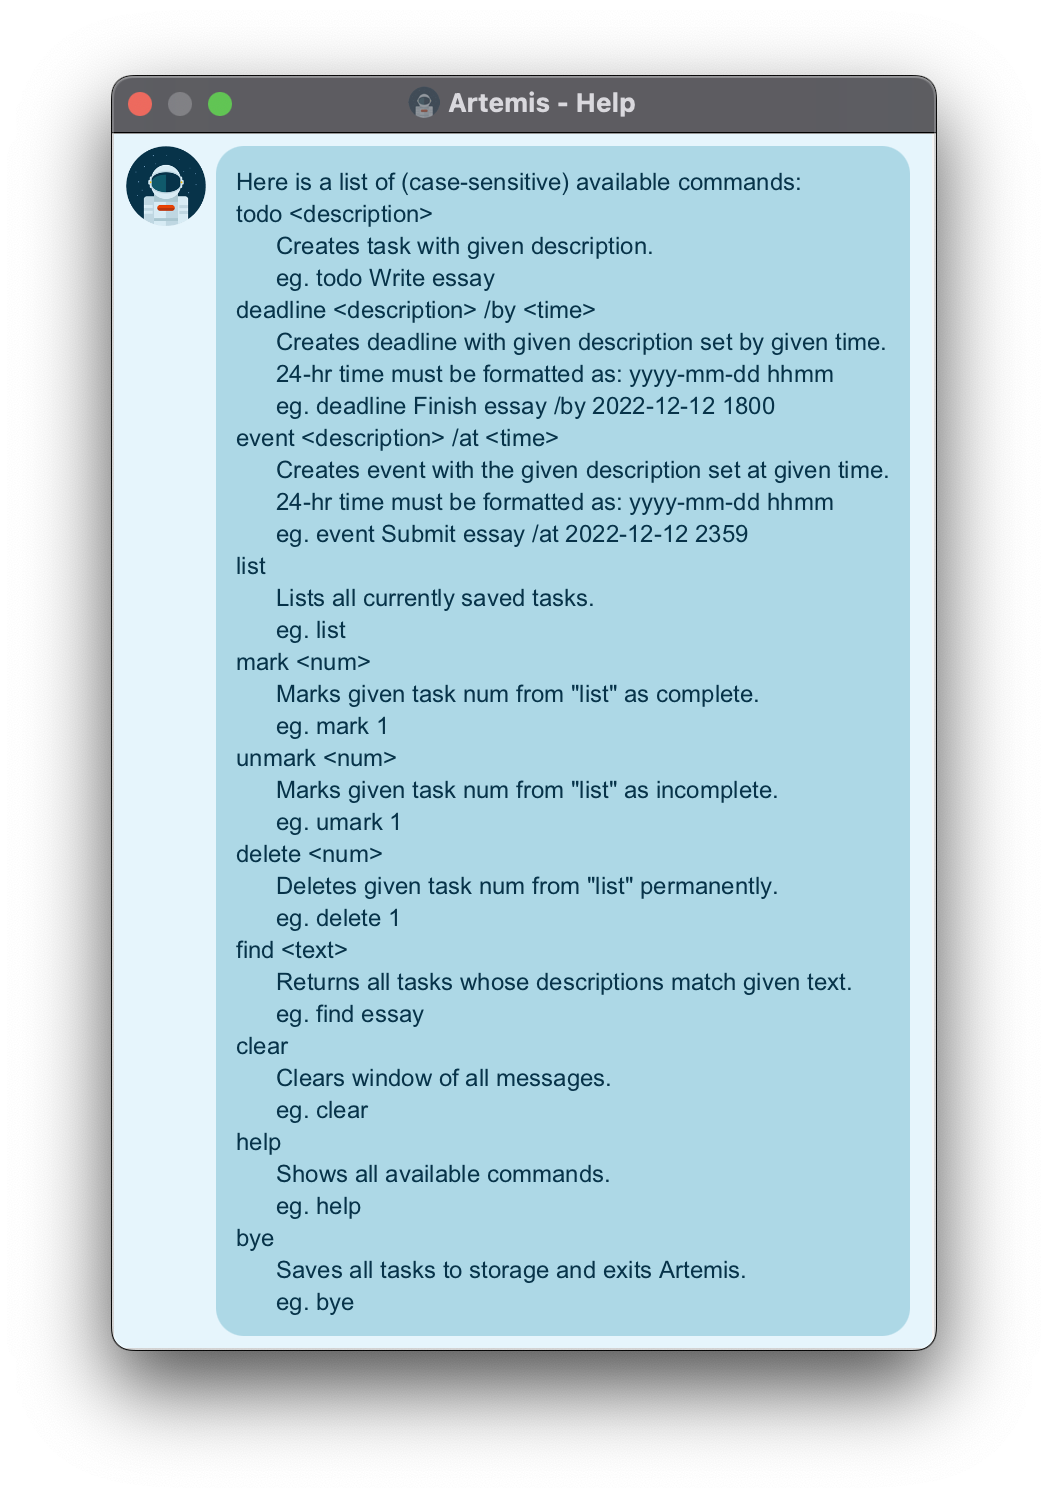
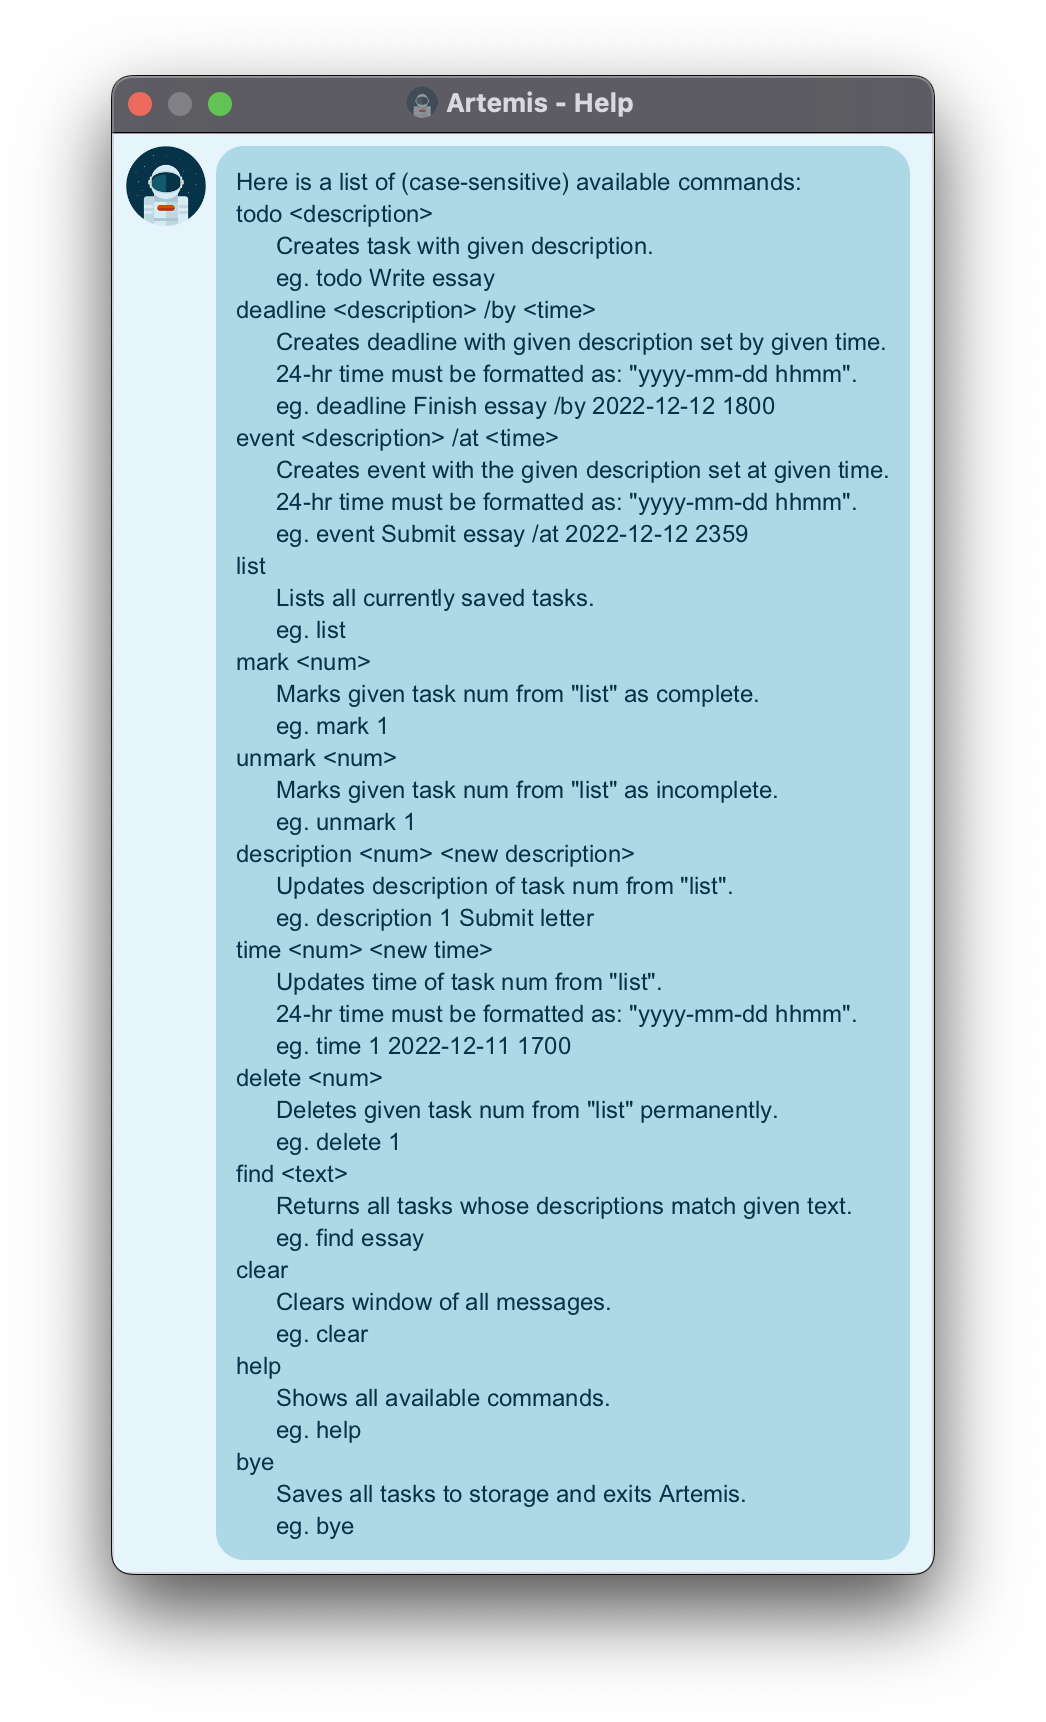
Update user guide and help command to include extension commands

Changed region(s): [[0.0918, 0.0307, 0.9178, 0.9519]]

diff --git a/src/main/java/duke/command/HelpCommand.java b/src/main/java/duke/command/HelpCommand.java
@@ -17,6 +17,8 @@ public class HelpCommand implements Command {
         "list",
         "mark <num>",
         "unmark <num>",
+        "description <num> <new description>",
+        "time <num> <new time>",
         "delete <num>",
         "find <text>",
         "clear",
@@ -26,12 +28,15 @@ public class HelpCommand implements Command {
     private static final String[] COMMAND_DESCRIPTIONS = {
         "Creates task with given description.",
         "Creates deadline with given description set by given time.\n"
-                + "      24-hr time must be formatted as: yyyy-mm-dd hhmm",
+                + "      24-hr time must be formatted as: \"yyyy-mm-dd hhmm\".",
         "Creates event with the given description set at given time.\n"
-                + "      24-hr time must be formatted as: yyyy-mm-dd hhmm",
+                + "      24-hr time must be formatted as: \"yyyy-mm-dd hhmm\".",
         "Lists all currently saved tasks.",
         "Marks given task num from \"list\" as complete.",
         "Marks given task num from \"list\" as incomplete.",
+        "Updates description of task num from \"list\".",
+        "Updates time of task num from \"list\".\n"
+                + "      24-hr time must be formatted as: \"yyyy-mm-dd hhmm\".",
         "Deletes given task num from \"list\" permanently.",
         "Returns all tasks whose descriptions match given text.",
         "Clears window of all messages.",
@@ -44,7 +49,9 @@ public class HelpCommand implements Command {
         "event Submit essay /at 2022-12-12 2359",
         "list",
         "mark 1",
-        "umark 1",
+        "unmark 1",
+        "description 1 Submit letter",
+        "time 1 2022-12-11 1700",
         "delete 1",
         "find essay",
         "clear",

diff --git a/src/main/java/duke/ui/HelpPopup.java b/src/main/java/duke/ui/HelpPopup.java
@@ -35,8 +35,8 @@ public class HelpPopup {
         Scene scene1 = new Scene(sp, 300, 250);
         scene1.setFill(Color.web("#e6f5fc"));
         popupWindow.setScene(scene1);
-        popupWindow.setWidth(412); // Ideal width to prevent need for scrolling
-        popupWindow.setHeight(637); // Ideal height to prevent need for scrolling
+        popupWindow.setWidth(411); // Ideal width to prevent need for scrolling
+        popupWindow.setHeight(749); // Ideal height to prevent need for scrolling
         popupWindow.show();
     }
 }

diff --git a/src/main/java/duke/command/UpdateTimeCommand.java b/src/main/java/duke/command/UpdateTimeCommand.java
@@ -28,7 +28,7 @@ public class UpdateTimeCommand implements Command {
             throw new DukeException("Please attach a valid task number to the command.");
         } catch (IndexOutOfBoundsException e) {
             throw new DukeException("Please attach both a valid task number and a "
-                    + "non-empty time in this 24-hour format: \"yyyy-mm-dd hhmm\"");
+                    + "non-empty time in this 24-hour format: \"yyyy-mm-dd hhmm\".");
         }
     }
 

diff --git a/docs/README.md b/docs/README.md
@@ -60,11 +60,13 @@ under [UI Screenshots](#ui-screenshots). Here is a table summarising them:
 5. [Viewing all tasks](#viewing-all-tasks-list)
 6. [Marking a task as complete](#marking-a-task-as-complete-mark)
 7. [Marking a task as incomplete](#marking-a-task-as-incomplete-unmark)
-8. [Deleting a task](#deleting-a-task-delete)
-9. [Searching for a task](#searching-for-a-task-find)
-10. [Clearing screen of all messages](#clearing-screen-of-all-messages-clear)
-11. [Deleting all tasks](#deleting-all-tasks-reset)
-12. [Saving and exiting](#saving-and-exiting-bye)
+8. [Updating a task description](#updating-a-task-description-description)
+9. [Updating time of deadline or event](#updating-time-of-deadline-or-event-time)
+10. [Deleting a task](#deleting-a-task-delete)
+11. [Searching for a task](#searching-for-a-task-find)
+12. [Clearing screen of all messages](#clearing-screen-of-all-messages-clear)
+13. [Deleting all tasks](#deleting-all-tasks-reset)
+14. [Saving and exiting](#saving-and-exiting-bye)
 
 ### Editing, Exporting or Importing Saved Data
 
@@ -75,106 +77,129 @@ folder present inside *Artemis*' home folder.
 
 ### Viewing list of available commands: `help`
 
-Shows all available commands in a new window, with a synopsis and usage example.  
-Usage: `help`
+_Shows all available commands in a new window, with a synopsis and usage example._  
+**Usage:** `help`
 
 ### Creating a task with a description: `todo`
 
-Creates a todo task.  
-Note: Todo tasks have a description attached to them.  
-Usage: `todo {description}`  
-Example: `todo Submit essay`
+_Creates a todo task._  
+**Note:** Todo tasks have a description attached to them.  
+**Usage:** `todo {description}`  
+**Example:** `todo Submit essay`
 
 ### Creating a task due at a specific time: `deadline`
 
-Creates a deadline task.  
-Note: Deadline tasks have a time attached to them. This time **must** be entered in the
-following 24-hour format: `yyyy-mm-dd hhmm`  
-Usage: `deadline {description} /by {time}`  
-Example: `deadline Submit essay /by 2022-12-12 1800`
+_Creates a deadline task._  
+**Note:** Deadline tasks have a time attached to them. This time **must** be entered in
+the following 24-hour format: `yyyy-mm-dd hhmm`.  
+**Usage:** `deadline {description} /by {time}`  
+**Example:** `deadline Submit essay /by 2022-12-12 1800`
 
 ### Creating an task taking place at a specific time: `event`
 
-Creates an event task.  
-Note: Event tasks have a time attached to them. This time **must** be entered in the
-following 24-hour format: `yyyy-mm-dd hhmm`  
-Usage: `event {description} /at {time}`  
-Example: `event Essay submission /at 2022-12-12 1800`
+_Creates an event task._  
+**Note:** Event tasks have a time attached to them. This time **must** be entered in the
+following 24-hour format: `yyyy-mm-dd hhmm`.  
+**Usage:** `event {description} /at {time}`  
+**Example:** `event Essay submission /at 2022-12-12 1800`
 
 ### Viewing all tasks: `list`
 
-Shows a list of all tasks stored in *Artemis*.  
-Usage: `list`
+_Shows a list of all tasks stored in *Artemis*._  
+**Usage:** `list`
 
 ### Marking a task as complete: `mark`
 
-Marks a specified task as complete.  
-Note: The number below refers to the task number visible through the `list` command.
+_Marks a specified task as complete._  
+**Note:** The number below refers to the task number visible through the `list` command.
 Numbers that do not exist on this list or numbers less than or equal to 0 will result in
 an error.    
-Usage: `mark {number}`  
-Example: `mark 1`
+**Usage:** `mark {number}`  
+**Example:** `mark 1`
 
 ### Marking a task as incomplete: `unmark`
 
-Marks a specified task as incomplete.  
-Note: The number below refers to the task number visible through the `list` command.
+_Marks a specified task as incomplete._  
+**Note:** The number below refers to the task number visible through the `list` command.
 Numbers that do not exist on this list or numbers less than or equal to 0 will result in
 an error.  
-Usage: `unmark {number}`  
-Example: `unmark 1`
+**Usage:** `unmark {number}`  
+**Example:** `unmark 1`
+
+### Updating a task description: `description`
+
+_Updates the description of a task._  
+**Note:** The number below refers to the task number visible through the `list` command.
+Numbers that do not exist on this list or numbers less than or equal to 0 will result in
+an error.  
+**Usage:** `description {number} {new description}`  
+**Example:** `description 1 Submit letter`
+
+### Updating time of deadline or event: `time`
+
+_Updates the time of a task. This command displays an error when called on tasks with no
+time attached, i.e. todo tasks._  
+**Note:** The number below refers to the task number visible through the `list` command.
+Numbers that do not exist on this list or numbers less than or equal to 0 will result in
+an error. Furthermore, the time **must** be entered in the following 24-hour
+format: `yyyy-mm-dd hhmm`.   
+**Usage:** `time {number} {new time}`  
+**Example:** `time 1 2022-12-11 1700`
 
 ### Deleting a task: `delete`
 
-Deletes a specified task from the list of all tasks.  
-Note: The number below refers to the task number visible through the `list` command.
+_Deletes a specified task from the list of all tasks._  
+**Note:** The number below refers to the task number visible through the `list` command.
 Numbers that do not exist on this list or numbers less than or equal to 0 will result in
 an error.  
-Usage: `delete {number}`  
-Example: `delete 1`
+**Usage:** `delete {number}`  
+**Example:** `delete 1`
 
 ### Searching for a task: `find`
 
-Shows all tasks whose descriptions contain the specified text.  
-Note: The specified text is case-sensitive, and takes all characters (including spaces)
+_Shows all tasks whose descriptions contain the specified text._  
+**Note:** The specified text is case-sensitive, and takes all characters (including
+spaces)
 into account.  
-Usage: `find {text}`  
-Example: `find Submit essay`
+**Usage:** `find {text}`  
+**Example:** `find Submit essay`
 
 ### Clearing screen of all messages: `clear`
 
-Removes all messages from the application window.  
-Usage: `clear`
+_Removes all messages from the application window._  
+**Usage:** `clear`
 
 ### Deleting all tasks: `reset`
 
-Deletes all tasks that *Artemis* is aware of.  
-Note: This command is **nuclear**, and cannot be undone if saved. Please only use it if
-deleting all tasks is your intended goal.  
-Usage: `reset`
+_Deletes all tasks that *Artemis* is aware of._  
+**Note:** This command is **nuclear**, and cannot be undone if saved. Please only use it
+if deleting all tasks is your intended goal.  
+**Usage:** `reset`
 
 ### Saving and exiting: `bye`
 
-Saves and exits *Artemis*.  
-Note: This command is important if task data is to be saved for the future.  
-Usage: `bye`
+_Saves and exits *Artemis*._  
+**Note:** This command is important if task data is to be saved for the future.  
+**Usage:** `bye`
 
 # Command Summary
 
-| Command                    | Description                                                          |
-|----------------------------|----------------------------------------------------------------------|
-| todo `desc`                | Creates a todo with the given description.                           |
-| deadline `desc` /by `time` | Creates a deadline with the given description set by the given time. |
-| event `desc` /at `time`    | Creates an event with the given description set at the given time.   |
-| list                       | Lists all currently saved tasks.                                     |
-| mark `num`                 | Marks task `num` from `list` as complete.                            |
-| unmark `num`               | Marks task `num` from `list` as incomplete.                          |
-| delete `num`               | Deletes task `num` from `list` permanently.                          |
-| find `text`                | Returns all tasks whose descriptions match the exact text.           |
-| clear                      | Clears window of all messages.                                       |
-| reset                      | Deletes all tasks.                                                   |
-| help                       | Shows all available commands.                                        |
-| bye                        | Saves all tasks to storage and exits Artemis.                        |
+| Command                             | Description                                                          |
+|-------------------------------------|----------------------------------------------------------------------|
+| todo `desc`                         | Creates a todo with the given description.                           |
+| deadline `desc` /by `time`          | Creates a deadline with the given description set by the given time. |
+| event `desc` /at `time`             | Creates an event with the given description set at the given time.   |
+| list                                | Lists all currently saved tasks.                                     |
+| mark `num`                          | Marks task `num` from `list` as complete.                            |
+| unmark `num`                        | Marks task `num` from `list` as incomplete.                          |
+| description `num` `new description` | Updates description of task `num` from `list`.                       |
+| time `num` `new time`               | Updates time of task `num` from `list`.                              |
+| delete `num`                        | Deletes task `num` from `list` permanently.                          |
+| find `text`                         | Returns all tasks whose descriptions match the exact text.           |
+| clear                               | Clears window of all messages.                                       |
+| reset                               | Deletes all tasks.                                                   |
+| help                                | Shows all available commands.                                        |
+| bye                                 | Saves all tasks to storage and exits Artemis.                        |
 
 # UI Screenshots
 
